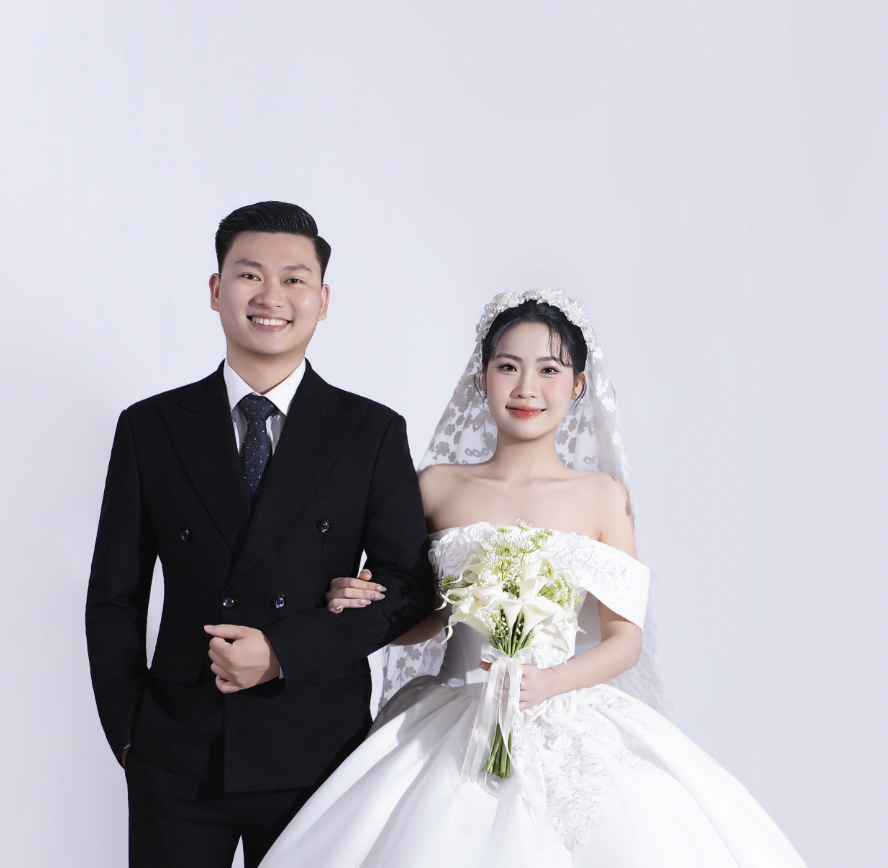
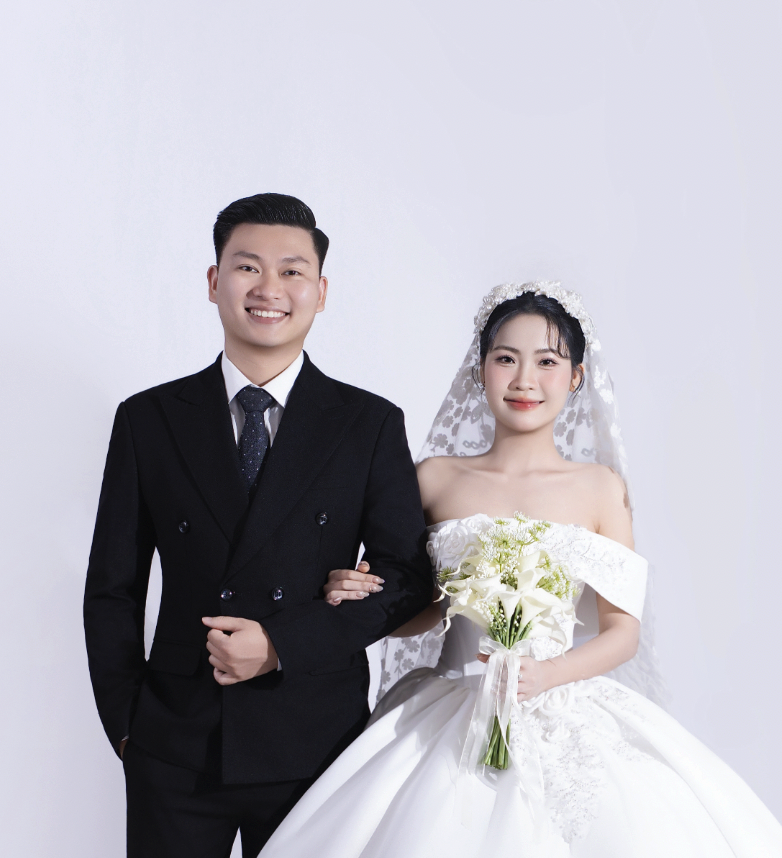
change: thumbnail image

Changed region(s): [[0.1841, 0.2121, 1.0, 1.0], [0.0921, 0.4545, 0.1841, 1.0], [0.1535, 0.6364, 0.3683, 0.8182]]

diff --git a/app/components/Content.tsx b/app/components/Content.tsx
@@ -101,8 +101,8 @@ const Content = ({ name = "bạn" }: { name: string }) => {
                 Thiệp Mời
               </h1>
               <img
-                src="./assets/images/vvvv.jpg"
-                data-src="./assets/images/vvvv.jpg"
+                src="./assets/images/thumbnail.jpg"
+                data-src="./assets/images/thumbnail.jpg"
                 alt="bg"
                 onClick={openImageModal}
                 className="img-center-crop rounded-circle border border-3 border-light shadow my-4 mx-auto cursor-pointer object-top"

diff --git a/app/components/Progress.tsx b/app/components/Progress.tsx
@@ -14,7 +14,7 @@ const Progress = ({ name }: { name?: string }) => {
         <div className="d-flex flex-column width-loading text-center">
           <img
             src="./assets/images/placeholder.webp"
-            data-src="./assets/images/vvvv.jpg"
+            data-src="./assets/images/thumbnail.jpg"
             fetchPriority="high"
             className="img-fluid mb-3 mx-auto object-fit-cover opacity-0"
             alt="icon"

diff --git a/app/components/Welcome.tsx b/app/components/Welcome.tsx
@@ -12,7 +12,7 @@ const Welcome = ({ name }: { name?: string }) => {
           </h2>
           <img
             src="./assets/images/placeholder.webp"
-            data-src="./assets/images/vvvv.jpg"
+            data-src="./assets/images/thumbnail.jpg"
             alt="background"
             className="img-center-crop rounded-circle border border-3 border-light shadow mb-4 mx-auto object-top"
           />
